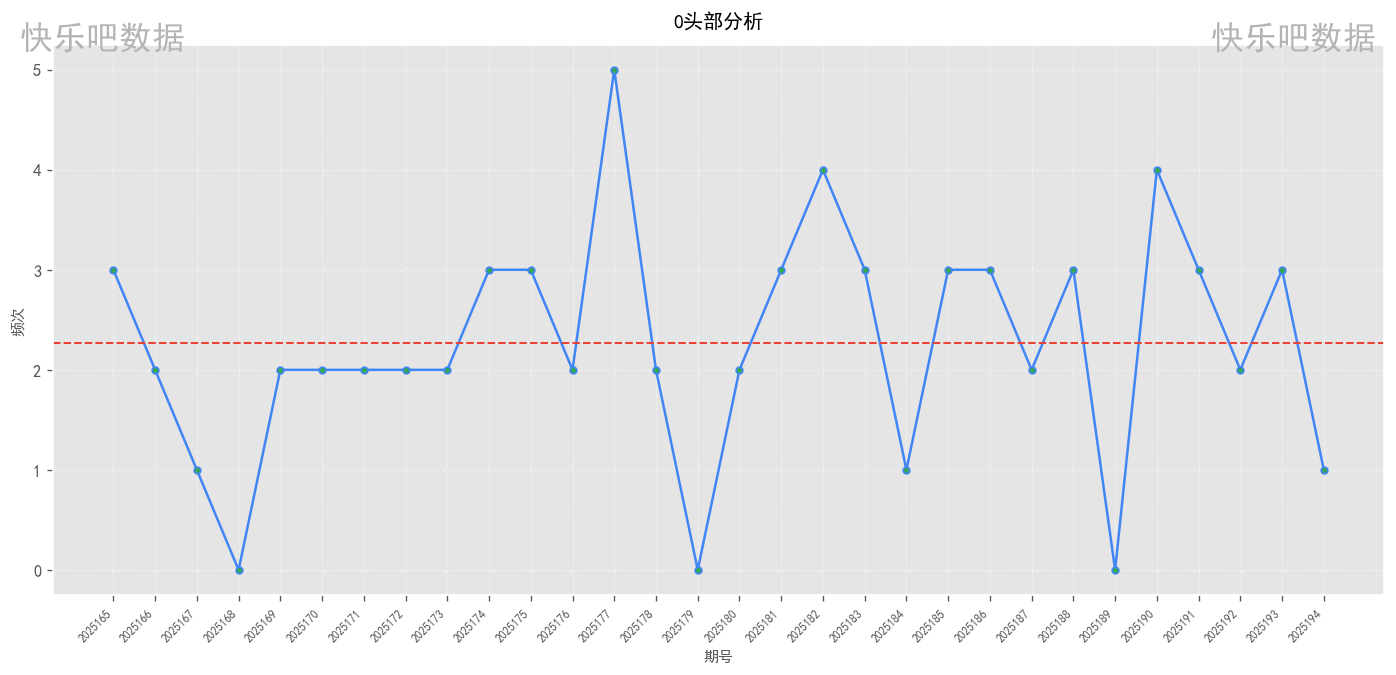
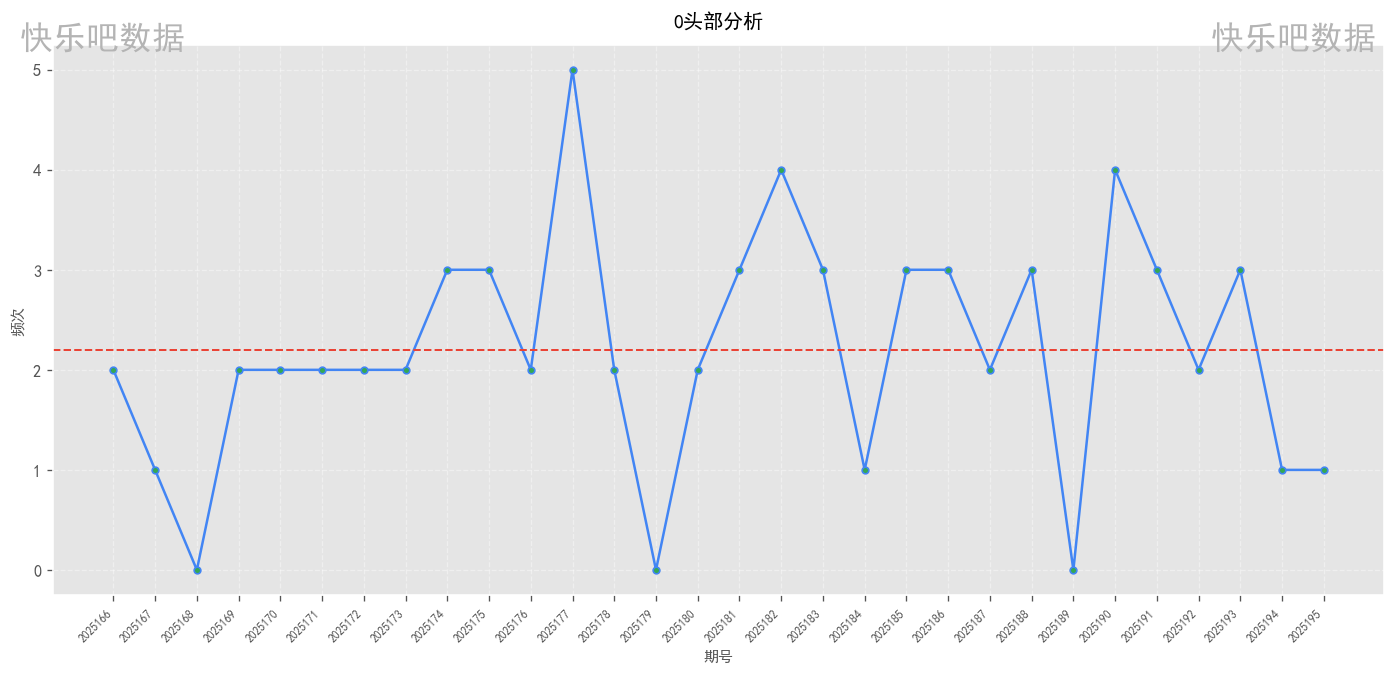
自动提交报告 20250724_2240

diff --git a/快乐8头号分析项目/数据报告/20250724/report.html b/快乐8头号分析项目/数据报告/20250724/report.html
@@ -440,7 +440,7 @@
                     <div class="label">头部区间</div>
                 </div>
                 <div class="overview-card">
-                    <div class="value">2025194</div>
+                    <div class="value">2025195</div>
                     <div class="label">最新期号</div>
                 </div>
                 <div class="overview-card">
@@ -464,11 +464,11 @@
             <div class="stats-summary">
                 <div class="stat-item">
                     <span class="stat-label">历史平均</span>
-                    <span class="stat-value">2.27</span>
+                    <span class="stat-value">2.20</span>
                 </div>
                 <div class="stat-item">
                     <span class="stat-label">近期平均</span>
-                    <span class="stat-value">2.60</span>
+                    <span class="stat-value">2.00</span>
                 </div>
                 <div class="stat-item">
                     <span class="stat-label">最高频次</span>
@@ -490,7 +490,7 @@
                 </div>
                 <div class="stat-item">
                     <span class="stat-label">近期平均</span>
-                    <span class="stat-value">2.40</span>
+                    <span class="stat-value">2.80</span>
                 </div>
                 <div class="stat-item">
                     <span class="stat-label">最高频次</span>
@@ -508,11 +508,11 @@
             <div class="stats-summary">
                 <div class="stat-item">
                     <span class="stat-label">历史平均</span>
-                    <span class="stat-value">2.57</span>
+                    <span class="stat-value">2.60</span>
                 </div>
                 <div class="stat-item">
                     <span class="stat-label">近期平均</span>
-                    <span class="stat-value">2.40</span>
+                    <span class="stat-value">2.60</span>
                 </div>
                 <div class="stat-item">
                     <span class="stat-label">最高频次</span>
@@ -530,11 +530,11 @@
             <div class="stats-summary">
                 <div class="stat-item">
                     <span class="stat-label">历史平均</span>
-                    <span class="stat-value">2.67</span>
+                    <span class="stat-value">2.63</span>
                 </div>
                 <div class="stat-item">
                     <span class="stat-label">近期平均</span>
-                    <span class="stat-value">1.40</span>
+                    <span class="stat-value">1.60</span>
                 </div>
                 <div class="stat-item">
                     <span class="stat-label">最高频次</span>
@@ -552,11 +552,11 @@
             <div class="stats-summary">
                 <div class="stat-item">
                     <span class="stat-label">历史平均</span>
-                    <span class="stat-value">2.33</span>
+                    <span class="stat-value">2.27</span>
                 </div>
                 <div class="stat-item">
                     <span class="stat-label">近期平均</span>
-                    <span class="stat-value">2.60</span>
+                    <span class="stat-value">2.20</span>
                 </div>
                 <div class="stat-item">
                     <span class="stat-label">最高频次</span>
@@ -574,11 +574,11 @@
             <div class="stats-summary">
                 <div class="stat-item">
                     <span class="stat-label">历史平均</span>
-                    <span class="stat-value">2.70</span>
+                    <span class="stat-value">2.83</span>
                 </div>
                 <div class="stat-item">
                     <span class="stat-label">近期平均</span>
-                    <span class="stat-value">3.20</span>
+                    <span class="stat-value">3.40</span>
                 </div>
                 <div class="stat-item">
                     <span class="stat-label">最高频次</span>
@@ -596,11 +596,11 @@
             <div class="stats-summary">
                 <div class="stat-item">
                     <span class="stat-label">历史平均</span>
-                    <span class="stat-value">2.10</span>
+                    <span class="stat-value">2.03</span>
                 </div>
                 <div class="stat-item">
                     <span class="stat-label">近期平均</span>
-                    <span class="stat-value">2.00</span>
+                    <span class="stat-value">1.80</span>
                 </div>
                 <div class="stat-item">
                     <span class="stat-label">最高频次</span>
@@ -618,11 +618,11 @@
             <div class="stats-summary">
                 <div class="stat-item">
                     <span class="stat-label">历史平均</span>
-                    <span class="stat-value">2.60</span>
+                    <span class="stat-value">2.67</span>
                 </div>
                 <div class="stat-item">
                     <span class="stat-label">近期平均</span>
-                    <span class="stat-value">3.00</span>
+                    <span class="stat-value">3.20</span>
                 </div>
                 <div class="stat-item">
                     <span class="stat-label">最高频次</span>
@@ -668,7 +668,7 @@
         <div class="disclaimer">
             <div class="disclaimer-title"><i class="fas fa-exclamation-circle"></i> 法律声明</div>
             <p>本分析报告基于中国福利彩票官网公开数据制作，仅供历史数据分析与参考，严禁用于赌博或任何违法违规用途。</p>
-            <p>根据中国法律，禁止向未成年人传播彩票相关信息。数据统计周期: 2025165期-2025194期 | 生成时间: 2025-07-24 10:35</p>
+            <p>根据中国法律，禁止向未成年人传播彩票相关信息。数据统计周期: 2025166期-2025195期 | 生成时间: 2025-07-24 22:40</p>
         </div>
 
         <!-- 操作按钮 -->

diff --git a/index.html b/index.html
@@ -51,7 +51,7 @@
                 立即查看今日报告
             </a>
         </p>
-        <p>生成时间: 2025-07-24 10:35</p>
+        <p>生成时间: 2025-07-24 22:40</p>
     </div>
 
     <script>
